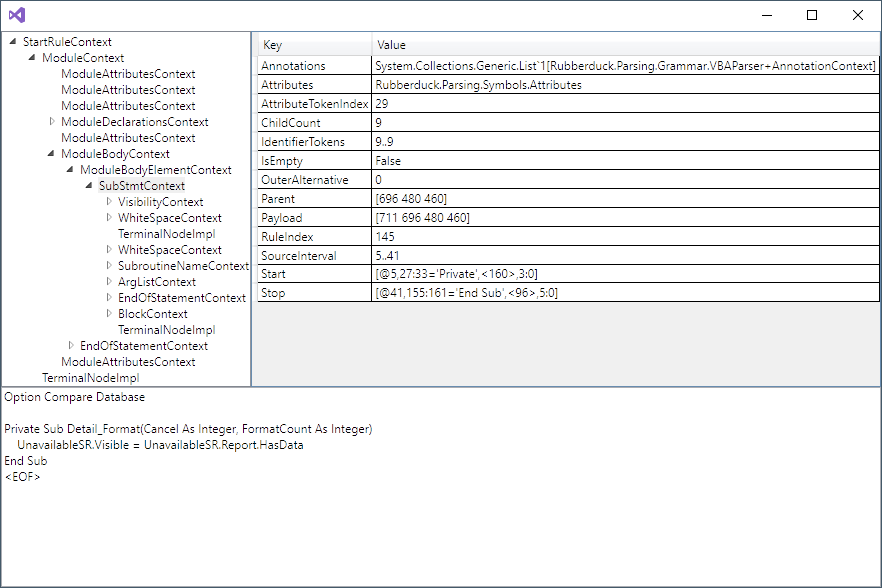
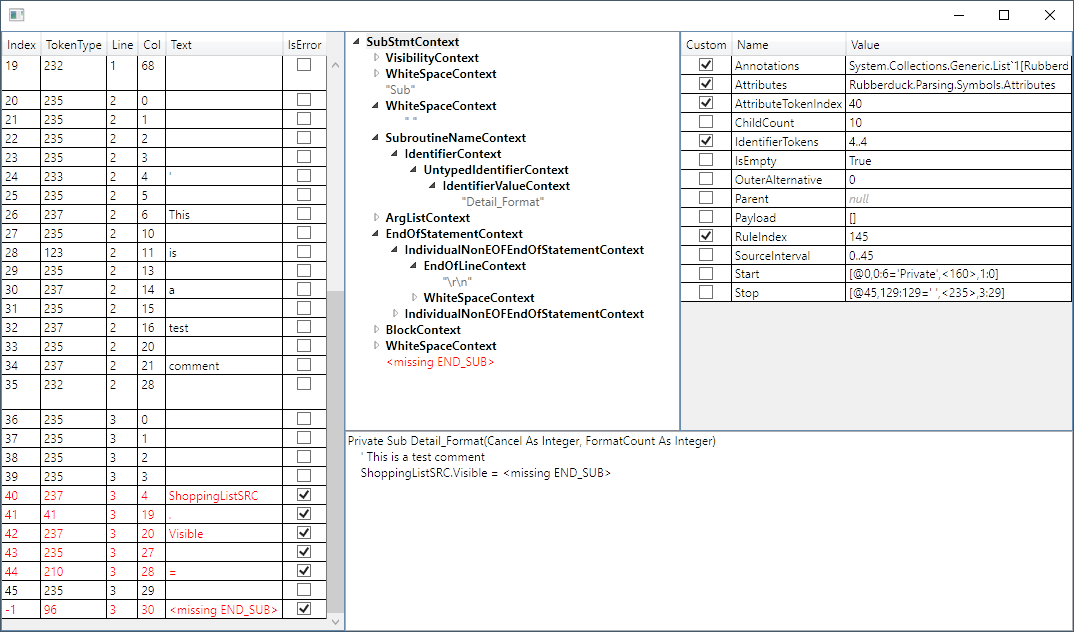
Error tokens and nodes in red

Changed region(s): [[0.0, 0.0, 1.0, 1.0]]

diff --git a/Shared/VisualizerControl.xaml b/Shared/VisualizerControl.xaml
@@ -3,12 +3,19 @@
         <my1:RootConverter x:Key="RootConverter" />
         <my1:NullConverter x:Key="NullConverter" />
         <my1:NodeTypeConverter x:Key="NodeTypeConverter"/>
+        <my1:ErrorColorConverter x:Key="ErrorColorConverter" />
         <Style TargetType="DataGrid">
             <Setter Property="IsReadOnly" Value="True" />
             <Setter Property="HeadersVisibility" Value="Column"/>
         </Style>
     </FrameworkElement.Resources>
-    <DataGrid Name="tokens" DockPanel.Dock="Left" ItemsSource="{Binding TerminalNodes,Mode=OneTime}" Height="{Binding ActualHeight,RelativeSource={RelativeSource AncestorType=DockPanel,AncestorLevel=1}}" />
+    <DataGrid Name="tokens" DockPanel.Dock="Left" ItemsSource="{Binding TerminalNodes,Mode=OneTime}" Height="{Binding ActualHeight,RelativeSource={RelativeSource AncestorType=DockPanel,AncestorLevel=1}}">
+        <DataGrid.RowStyle>
+            <Style TargetType="DataGridRow">
+                <Setter Property="Foreground" Value="{Binding IsError, Converter={StaticResource ErrorColorConverter},Mode=OneWay}" />
+            </Style>
+        </DataGrid.RowStyle>
+    </DataGrid>
     <TextBox Name="source" DockPanel.Dock="Bottom" MinHeight="200" Text="{Binding Source, Mode=OneTime}" />
     <DataGrid Name="properties" DockPanel.Dock="Right" ItemsSource="{Binding SelectedItem.Properties, ElementName=treeview, Mode=OneWay}" AutoGenerateColumns="False">
         <DataGrid.Columns>

diff --git a/Shared/Util/Converters.cs b/Shared/Util/Converters.cs
@@ -44,11 +44,20 @@ namespace ParseTreeVisualizer.Util {
             var nodeType = (TreeNodeType)value;
 
             if (targetType==typeof(Brush)) {
-                return nodeType == TreeNodeType.Token ? DimGray : UnsetValue;
+                switch (nodeType) {
+                    case TreeNodeType.RuleContext: return UnsetValue;
+                    case TreeNodeType.Token: return DimGray;
+                    case TreeNodeType.Error: return Red;
+                    default: throw new InvalidOperationException("Invalid NodeType value");
+                }
             } else if (targetType == typeof(FontWeight)) {
                 return nodeType == TreeNodeType.RuleContext ? FontWeights.Bold : UnsetValue;
             }
             throw new InvalidOperationException("Converter only valid for Brush and FontWeight.");
         }
+    }
+
+    public class ErrorColorConverter : ReadOnlyConverterBase {
+        public override object Convert(object value, Type targetType, object parameter, CultureInfo culture) => ((bool)value) ? Red : UnsetValue;
     }
 }

diff --git a/Shared/TerminalNodeImplVM.cs b/Shared/TerminalNodeImplVM.cs
@@ -10,17 +10,21 @@ using ParseTreeVisualizer.Util;
 namespace ParseTreeVisualizer {
     [Serializable]
     public class TerminalNodeImplVM {
-        public int Index { get; set; }
-        public string TokenType { get; set; }
-        public int Line { get; set; }
-        public int Col { get; set; }
-        public string Text { get; set; }
+        public int Index { get; }
+        public string TokenType { get; }
+        public int Line { get; }
+        public int Col { get; }
+        public string Text { get; }
+        public bool IsError { get; }
         public TerminalNodeImplVM(TerminalNodeImpl terminalNode) {
             Index = terminalNode.Payload.TokenIndex;
             TokenType = terminalNode.Payload.Type.ToString();
             Line = terminalNode.Payload.Line;
             Col = terminalNode.Payload.Column;
             Text = terminalNode.Payload.Text;
+            if (terminalNode is ErrorNodeImpl) {
+                IsError = true;
+            }
         }
     }
 }

diff --git a/Shared/TreeNodeData.cs b/Shared/TreeNodeData.cs
@@ -32,9 +32,14 @@ namespace ParseTreeVisualizer {
             } else if (tree is TerminalNodeImpl terminalNode) {
                 var vm = new TerminalNodeImplVM(terminalNode);
                 visualizerData.TerminalNodes.Add(vm);
-                NodeType = TreeNodeType.Token;
-                Caption = terminalNode.Payload.Text.ToCSharpLiteral();
-            } 
+                if (vm.IsError) {
+                    Caption = vm.Text;
+                    NodeType = TreeNodeType.Error;
+                } else {
+                    Caption = vm.Text.ToCSharpLiteral();
+                    NodeType = TreeNodeType.Token;
+                }
+            }
 
             Properties = t.GetProperties().OrderBy(x => x.Name).Select(prp => new PropertyValueVM(tree, prp)).ToList();
             Children = tree.Children().Select(x => new TreeNodeData(x, visualizerData)).ToList();

diff --git a/_visualizerTest/Program.cs b/_visualizerTest/Program.cs
@@ -17,7 +17,7 @@ namespace _visualizerTest {
             var code = @"
 Private Sub Detail_Format(Cancel As Integer, FormatCount As Integer)
     ' This is a test comment
-    ShoppingListSRC.Visible = ShoppingListSRC.Report.HasData
+    ShoppingListSRC.Visible = 'ShoppingListSRC.Report.HasData
     PreparedMealsSRC.Visible = PreparedMealsSRC.Report.HasData
     MeatsSRC.Visible = MeatsSRC.Report.HasData
 End Sub".Trim();

diff --git a/README.md b/README.md
@@ -2,8 +2,14 @@
 
 [![GitHub Release](https://img.shields.io/github/release/zspitz/antlr4parsetreevisualizer?style=flat&max-age=86400)](https://github.com/zspitz/ANTLR4ParseTreeVisualizer/releases) [![AppVeyor build status](https://img.shields.io/appveyor/ci/zspitz/antlr4parsetreevisualizer?style=flat&max-age=86400)](https://ci.appveyor.com/project/zspitz/antlr4parsetreevisualizer) 
 
-
 ![Screenshot](screenshot.png)
+
+## Features
+
+* List of tokens (error tokens are highlighted in red)
+* Treeview of rule contexts and terminal nodes (error nodes in red)
+* Properties of selected treeview node (properties not declared in the Antlr namespace are checked)
+* Source view
 
 This project is very much in an alpha stage. It currently only targets `RuleContext` and derived classes.
 
@@ -21,7 +27,7 @@ Save the compiled DLL in one of Visual Studio's recognized visualizer folders. Y
 ## Usage
 
 1. Begin a debugging session, and break at some point.
-2. Navigate to an instance of one of the visualizer target types (ATM only `RulerContext`, but can also be a subtype), in the code editor, or the Watch or Locals window. This instance can be exposd by any variable, or any expression; the type of the expression doesn't matter.
+2. Navigate to an instance of one of the visualizer target types (ATM only `RulerContext`, but can also be a subtype), in the code editor, or the Watch or Locals window. This instance can be exposed by any variable, or any expression; the type of the expression doesn't matter.
 3. Click on the magnifying glass to the right of the expression.
 
 ## Contributing
